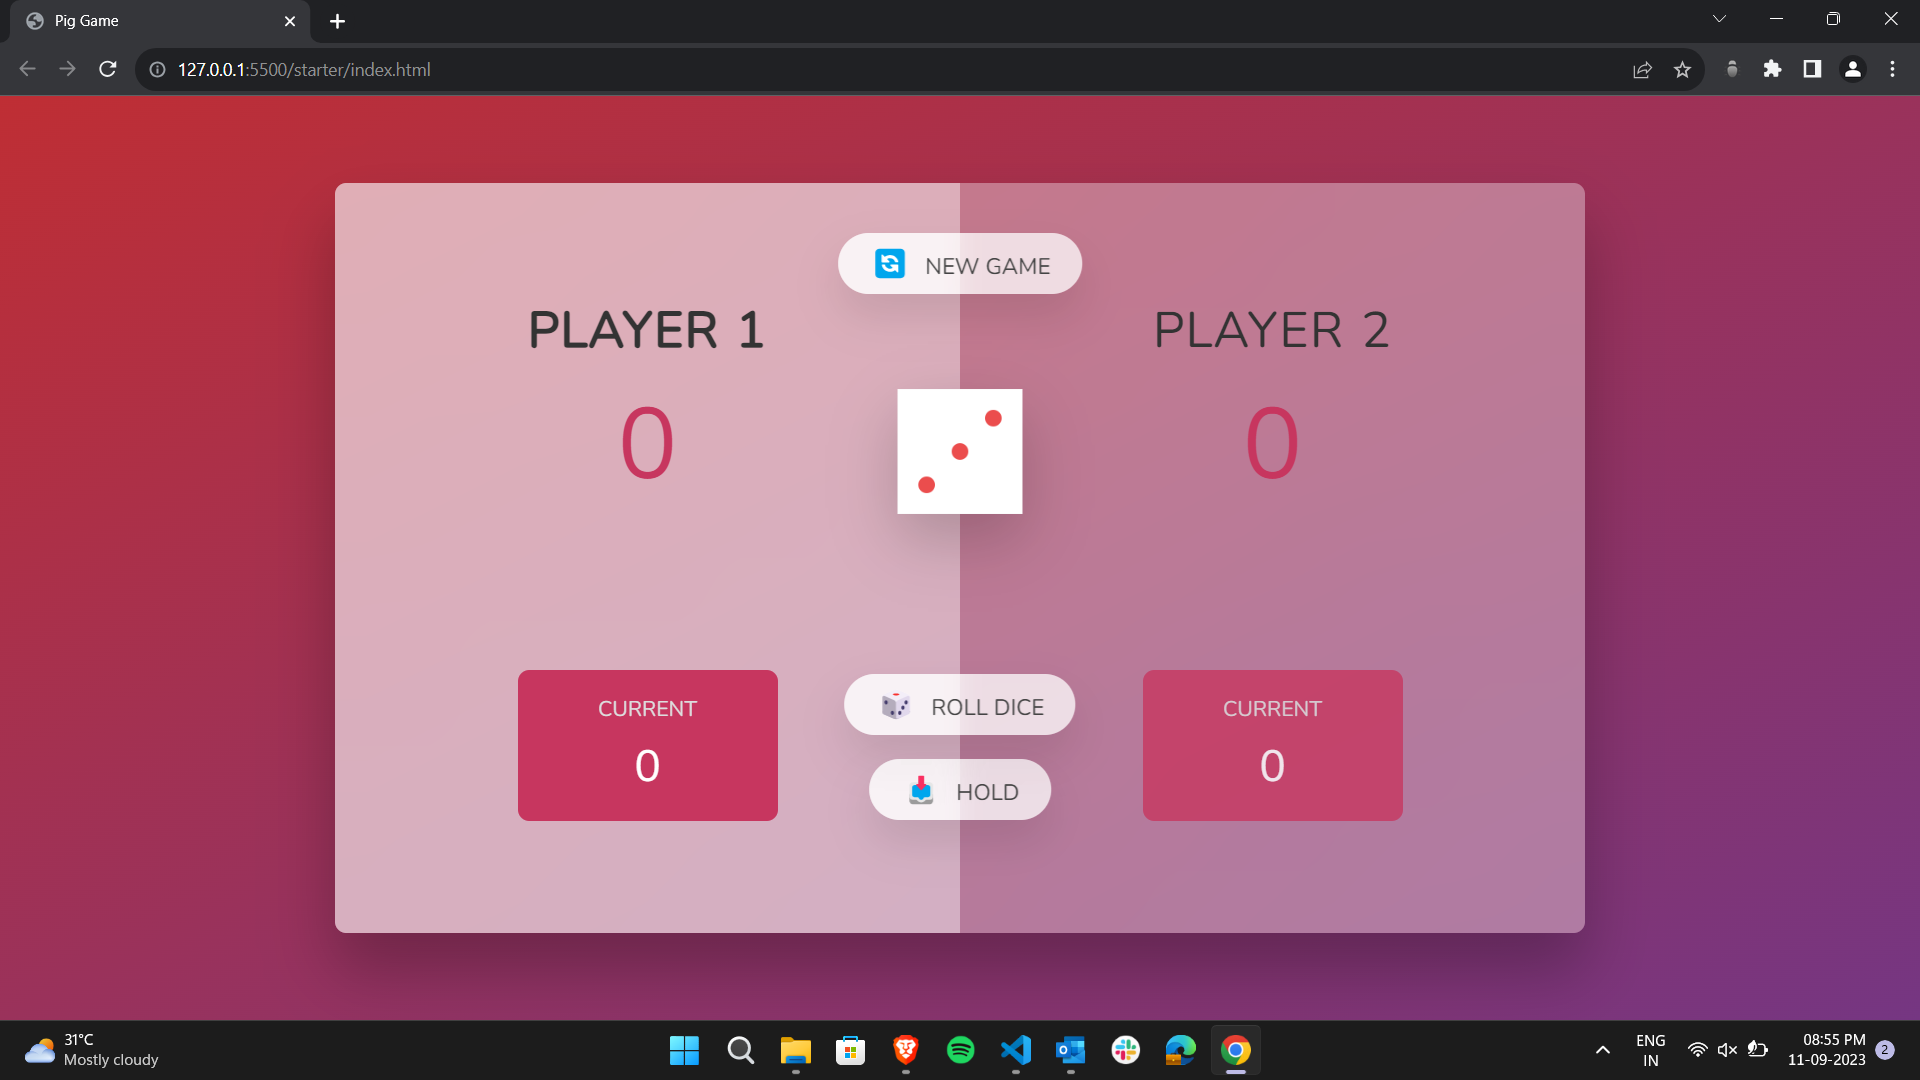
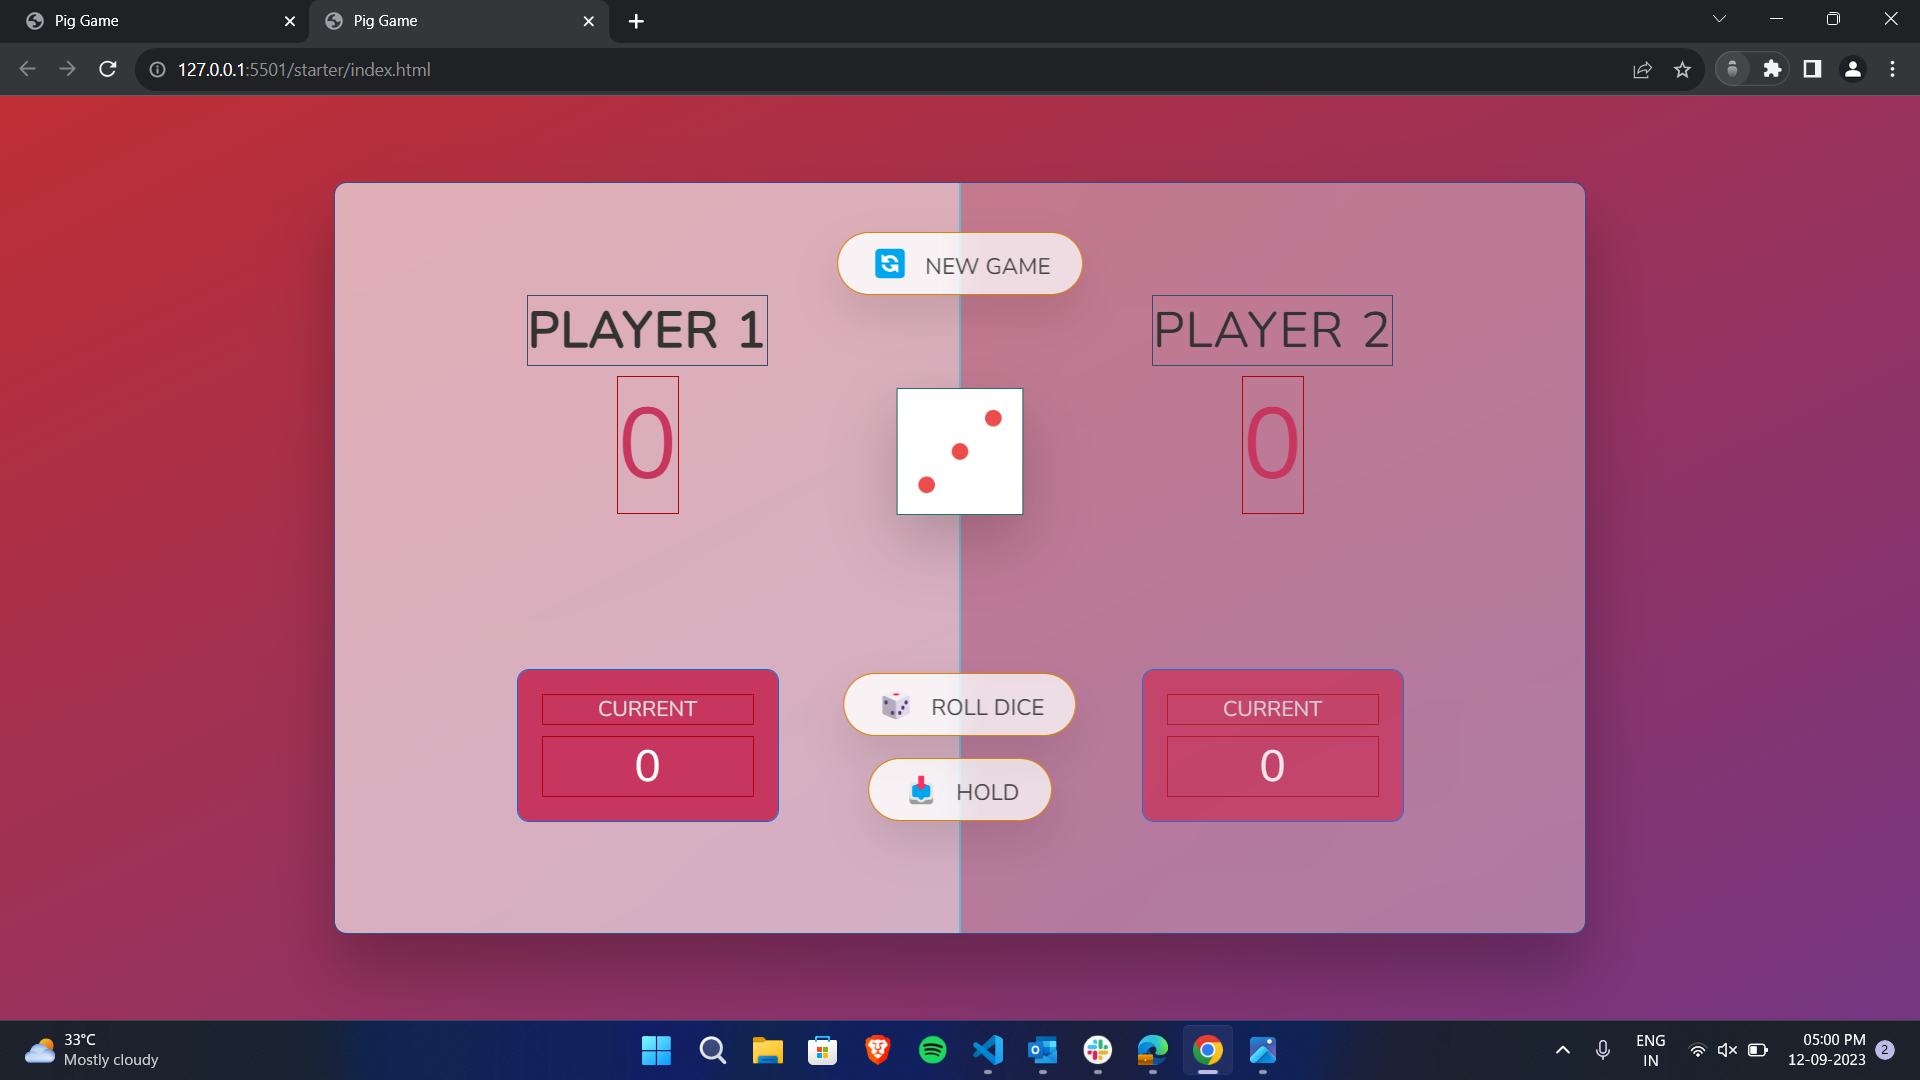
fixed layout without buttons

Changed region(s): [[0.1562, 0.9472, 0.75, 1.0], [0.1562, 0.0, 0.2188, 0.0306]]

diff --git a/styles.css b/styles.css
@@ -9,7 +9,6 @@ body {
   font-family: "Bebas Neue";
   height: 100vh;
   background-image: linear-gradient(to right top, pink, violet);
-  position: relative;
   display: flex;
   align-items: center;
   justify-content: center;
@@ -17,26 +16,50 @@ body {
 
 .game-board {
   display: flex;
+  align-items: center;
+  justify-content: center;
   width: 80%;
   height: 80vh;
+  color: rgb(73, 73, 73);
+  background-color: rgba(240, 255, 255, 0.5);
+  border-radius: 10px;
 }
 
 .player {
-  width: 50%;
+  display: flex;
+  flex-direction: column;
+  height: inherit;
+  width: inherit;
+  align-items: center;
   text-align: center;
-  display: flex;
-  flex-direction: column;
+}
+.bg {
+  background-color: rgba(238, 130, 238, 0.5);
+  color: rgba(255, 255, 255, 0.8);
+  border-radius: 10px;
+  margin-top: 60px;
 }
 
-.controls {
-  position: absolute;
-  display: flex;
-  flex-direction: column;
-  height: 80vh;
-  justify-content: space-around;
+.player-txt {
+  font-size: 54px;
+  margin: 20px;
+  padding: 5px 20px;
 }
 
-img {
-  width: 100px;
-  height: 100px;
+#score-0,
+#score-1 {
+  font-size: 100px;
+  margin-top: 10px;
+}
+
+.current-txt {
+  font-size: 38px;
+  margin: 20px;
+  padding: 5px 40px;
+}
+
+#current-0,
+#current-1 {
+  font-size: 46px;
+  margin: 10px 20px;
 }

diff --git a/index.html b/index.html
@@ -8,28 +8,28 @@
   <body>
     <main class="game-board">
       <section class="player player-0">
-        <h2>Player 1</h2>
+        <h2 class="player-txt">Player 1</h2>
         <p id="score-0">0</p>
-        <div>
-          <p>Current</p>
+        <div class="bg">
+          <p class="current-txt">Current</p>
           <p id="current-0">0</p>
         </div>
       </section>
       <section class="player player-1">
-        <h2>Player 2</h2>
-        <p id="score-0">0</p>
-        <div>
-          <p>Current</p>
+        <h2 class="player-txt">Player 2</h2>
+        <p id="score-1">0</p>
+        <div class="bg">
+          <p class="current-txt">Current</p>
           <p id="current-1">0</p>
         </div>
       </section>
     </main>
-    <div class="controls">
+    <!-- <div class="controls">
       <button class="btn new-game">🔁 New Game</button>
       <img src="./images/dice-3.png" alt="rolled dice image" />
       <button class="btn roll-dice">🎲 Roll Dice</button>
       <button class="btn hold">🪣 Hold</button>
-    </div>
+    </div> -->
     <script src="./script.js"></script>
   </body>
 </html>
